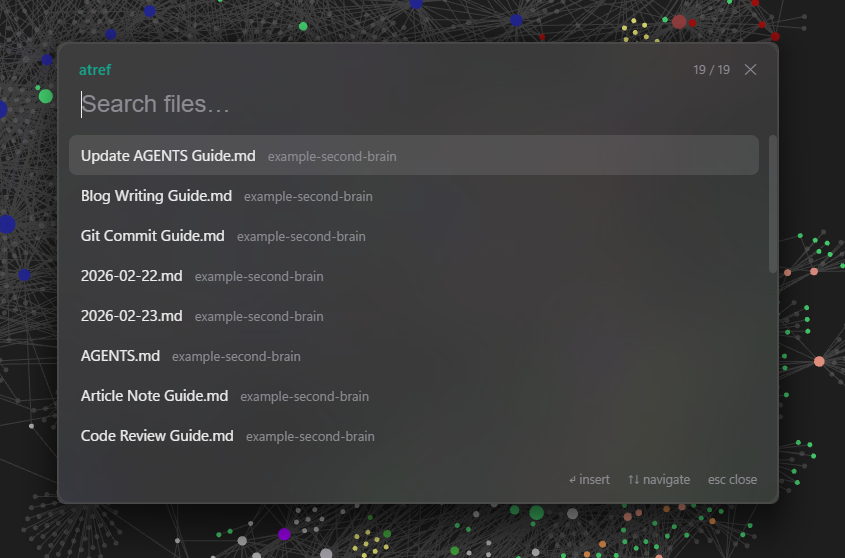
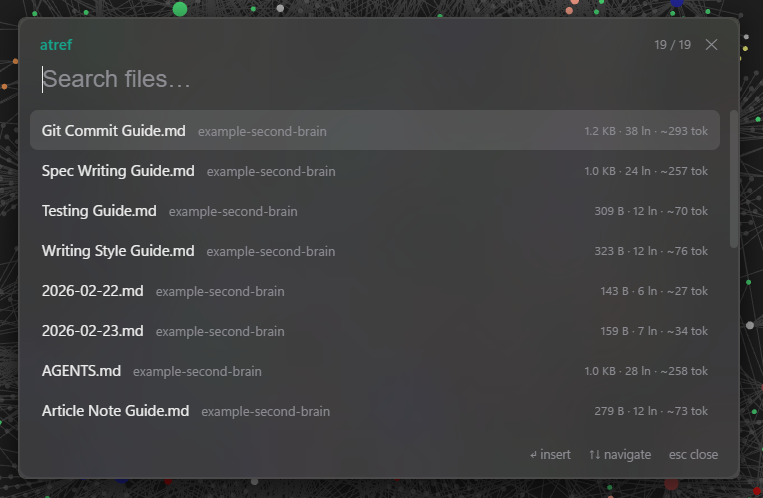
docs: refresh README demo to atref 0.6.0
Swap the stale launch clip for a fresh 0.6.0 walkthrough — a 2x-sped GIF that
autoplays inline, linked to a full-quality MP4, matching the agent-mail-cli
pattern. Refresh the empty-query screenshot to the 0.6.0 picker so the
per-row size/lines/tokens metrics are visible.

diff --git a/README.md b/README.md
@@ -16,7 +16,11 @@
   <strong>Claude Code's <code>@</code> file picker — everywhere.</strong>
 </p>
 
-https://github.com/user-attachments/assets/a4d04fb2-e767-426b-af13-4cee302573a7
+<p align="center">
+  <a href="docs/demo.mp4">
+    <img src="docs/demo.gif" alt="atref demo: summon the picker anywhere, fuzzy-search your indexed folders, and insert a file reference at the caret" width="760">
+  </a>
+</p>
 
 A global file-reference picker for Windows. Press a keyboard chord anywhere —
 terminal, browser, Obsidian, chat app, IDE — and an unobtrusive fuzzy picker pops